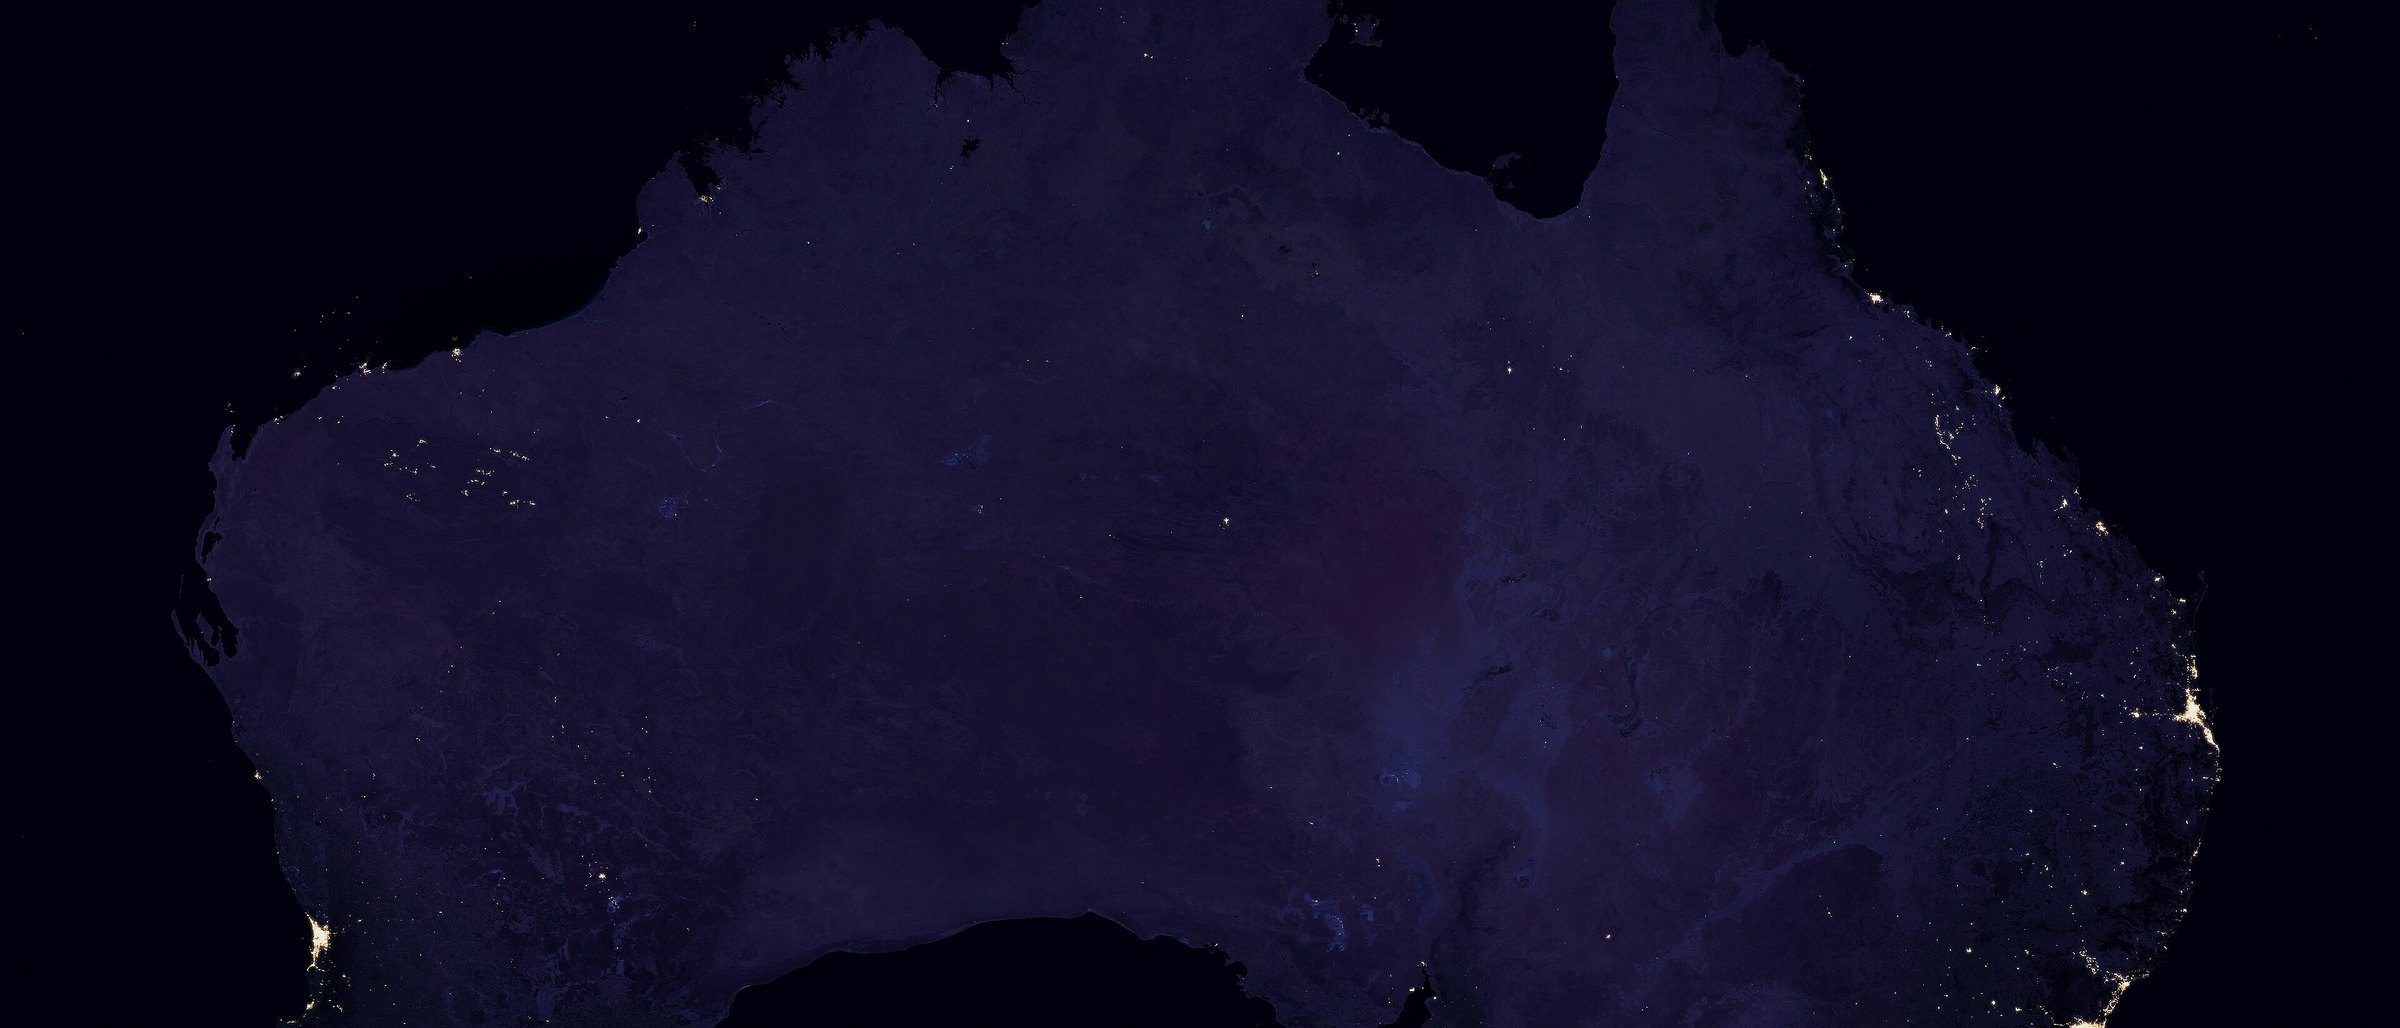
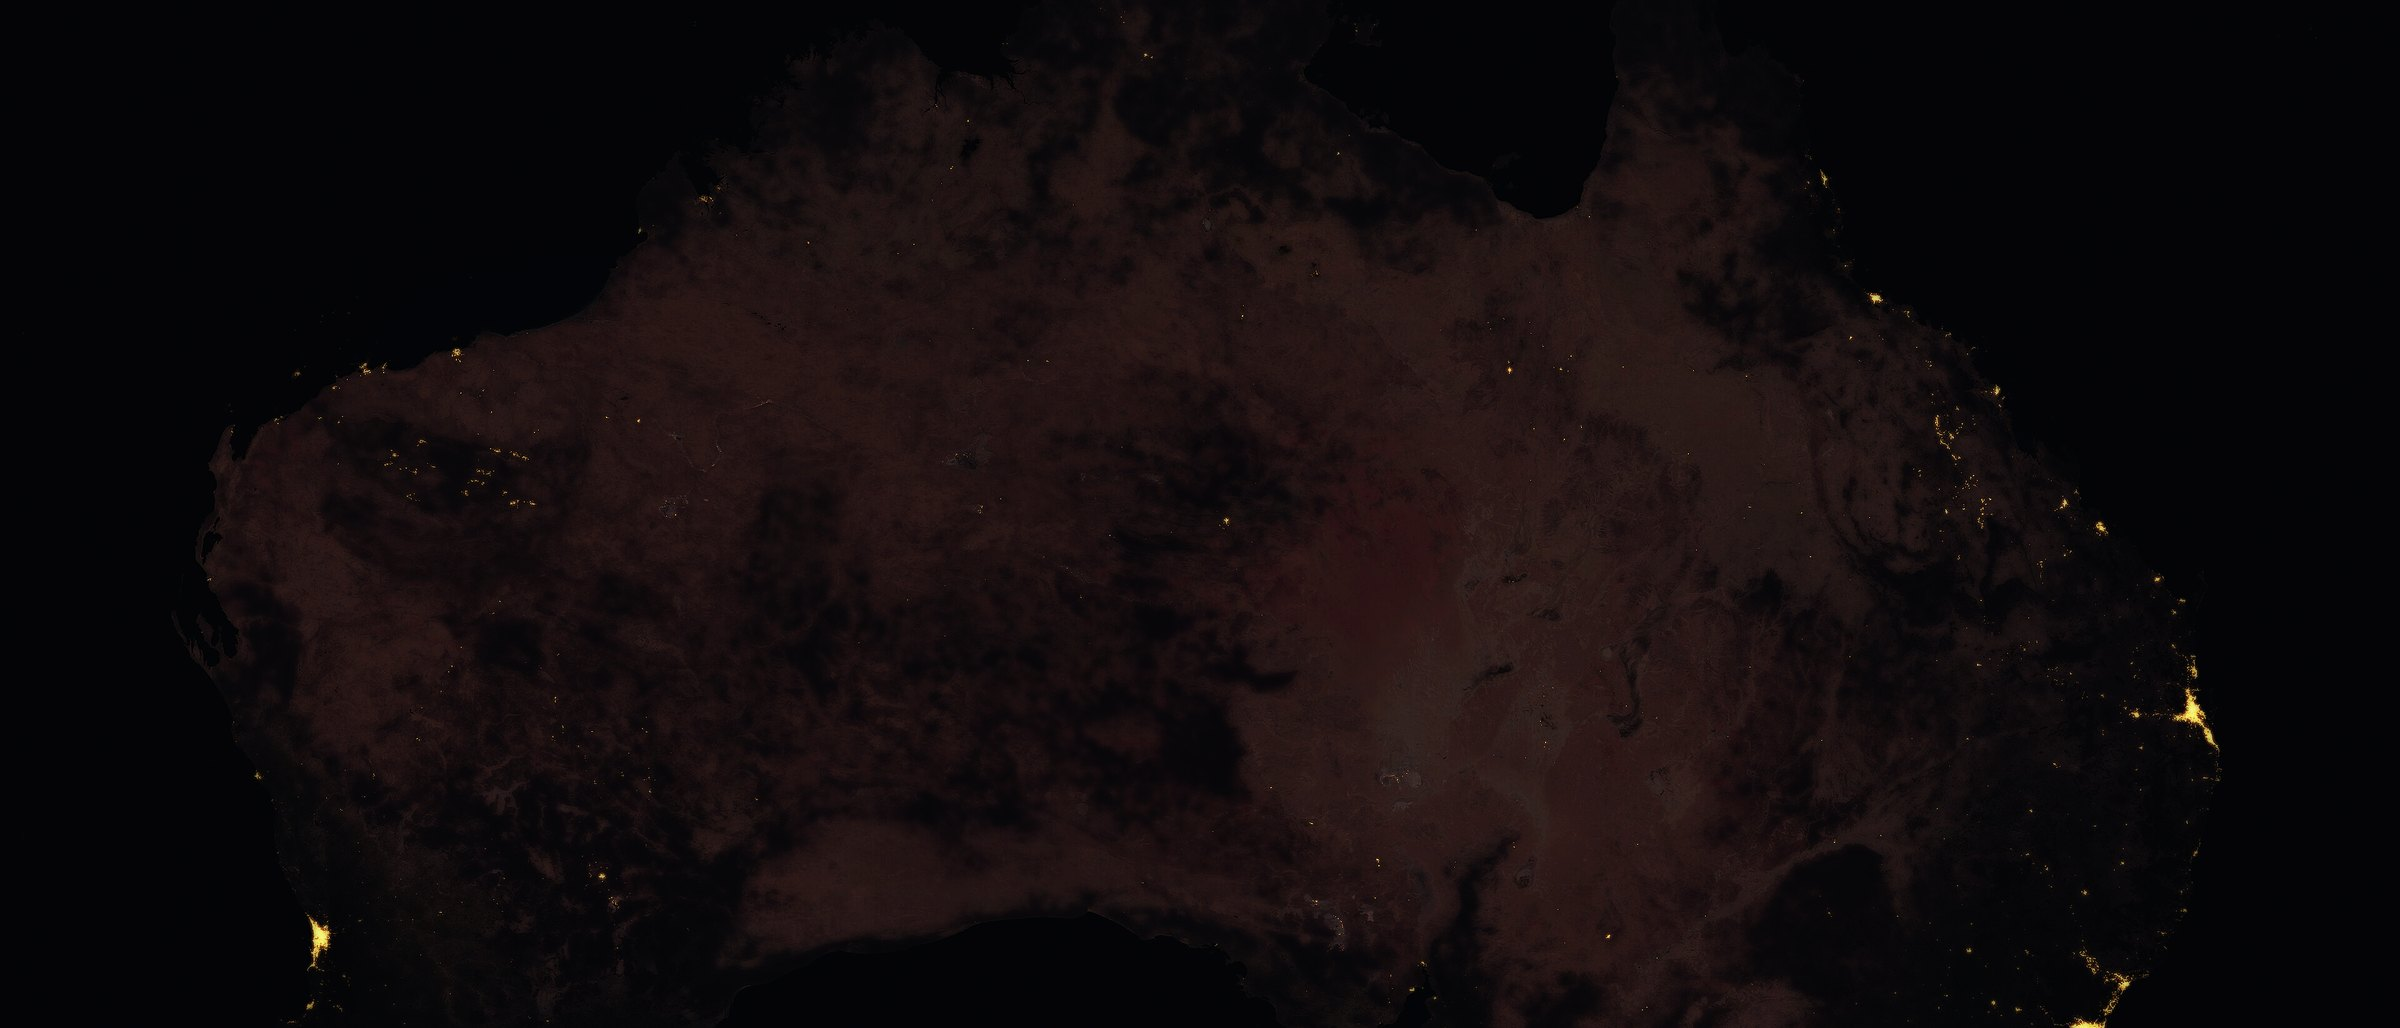
Map: pull the blue, punch the coasts.
NASA Black Marble with ocean crushed and city lights lifted gold-white. Interior still unlit. No cities invented.

diff --git a/index.html b/index.html
@@ -60,7 +60,7 @@
     <p>That instinct is worth taking seriously again, at a different scale. A civilisation reaching for more than one world has the same problem the old maps had: everything is concentrated at the top, and the bottom is a blank that someone assumes will sort itself out. The blank is where the redundancy has to go.</p>
     <p>A night survey lights the coasts. The interior, and the people who were here first, do not show as gold. They are not a blank. Free, Prior and Informed Consent stays above the legal minimum — a standard, not a chorus.</p>
     <p>Appin, Wollondilly, is one named place on that map — Dharawal country, Cataract Gorge. On 17 April 1816 a camp was raided by the 46th Regiment; at least fourteen people were killed. The site was added to the NSW Heritage Register in 2022. On 24 July 1979 fourteen men died in the Appin colliery methane explosion. Aerotropolis West sits in the same south-west basin. That is not one nation claimed for the whole of Western Sydney, and it is not a site selection. It is why the unlit interior is not treated as empty, and why the dead are not a hook.</p>
-    <p class="source-link">Map: NASA Black Marble 2016 (Suomi NPP VIIRS). Public domain. Credit: NASA Earth Observatory / Joshua Stevens, VIIRS data Miguel Román, NASA GSFC. Opening night: NASA Black Marble 2016. City lights as they are. Interior unlit because it is unlit. No cities added. Credit: NASA Earth Observatory / Joshua Stevens, VIIRS data Miguel Román, NASA GSFC.</p>
+    <p class="source-link">Map: NASA Black Marble 2016 (Suomi NPP VIIRS). Public domain. Credit: NASA Earth Observatory / Joshua Stevens, VIIRS data Miguel Román, NASA GSFC. Presentation: city lights lifted, ocean blue pulled back. Interior unlit because it is unlit. No cities added.</p>
   </div>
 </section>
 
